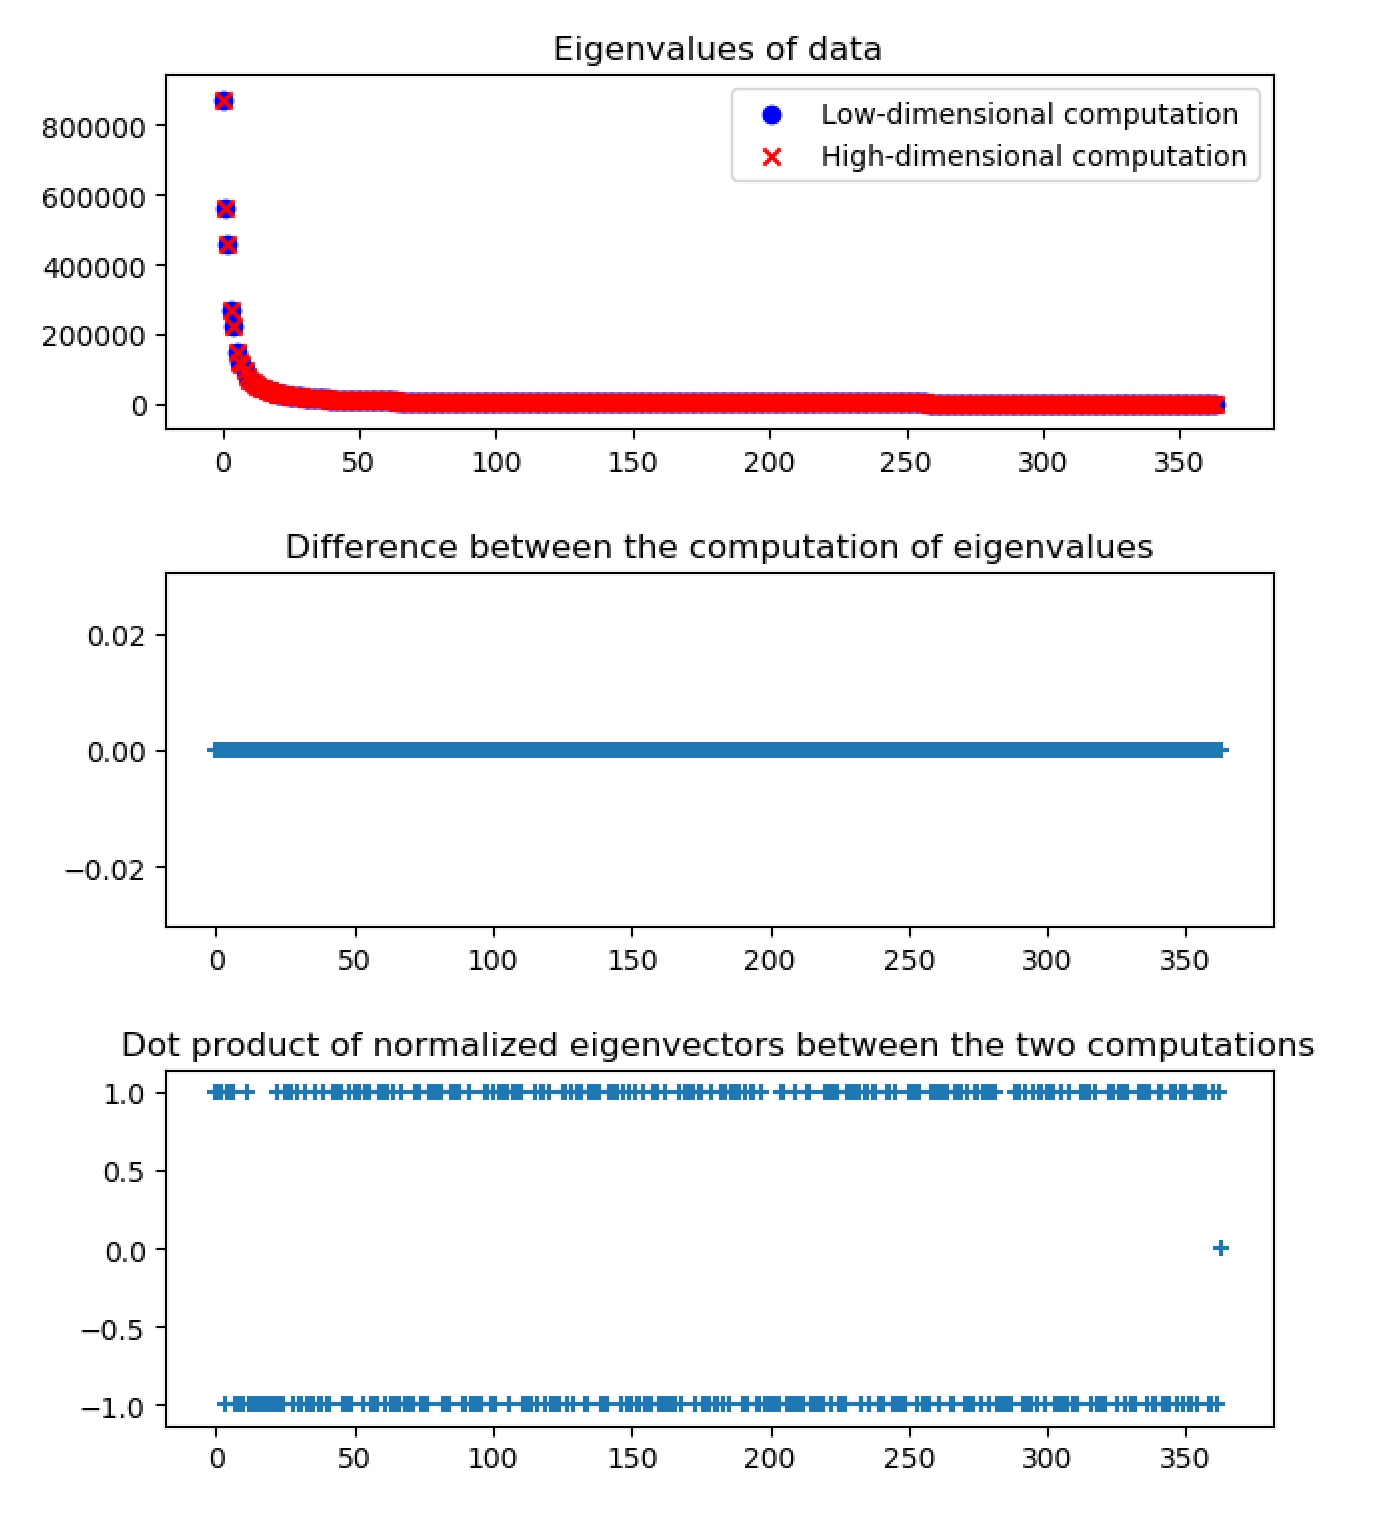
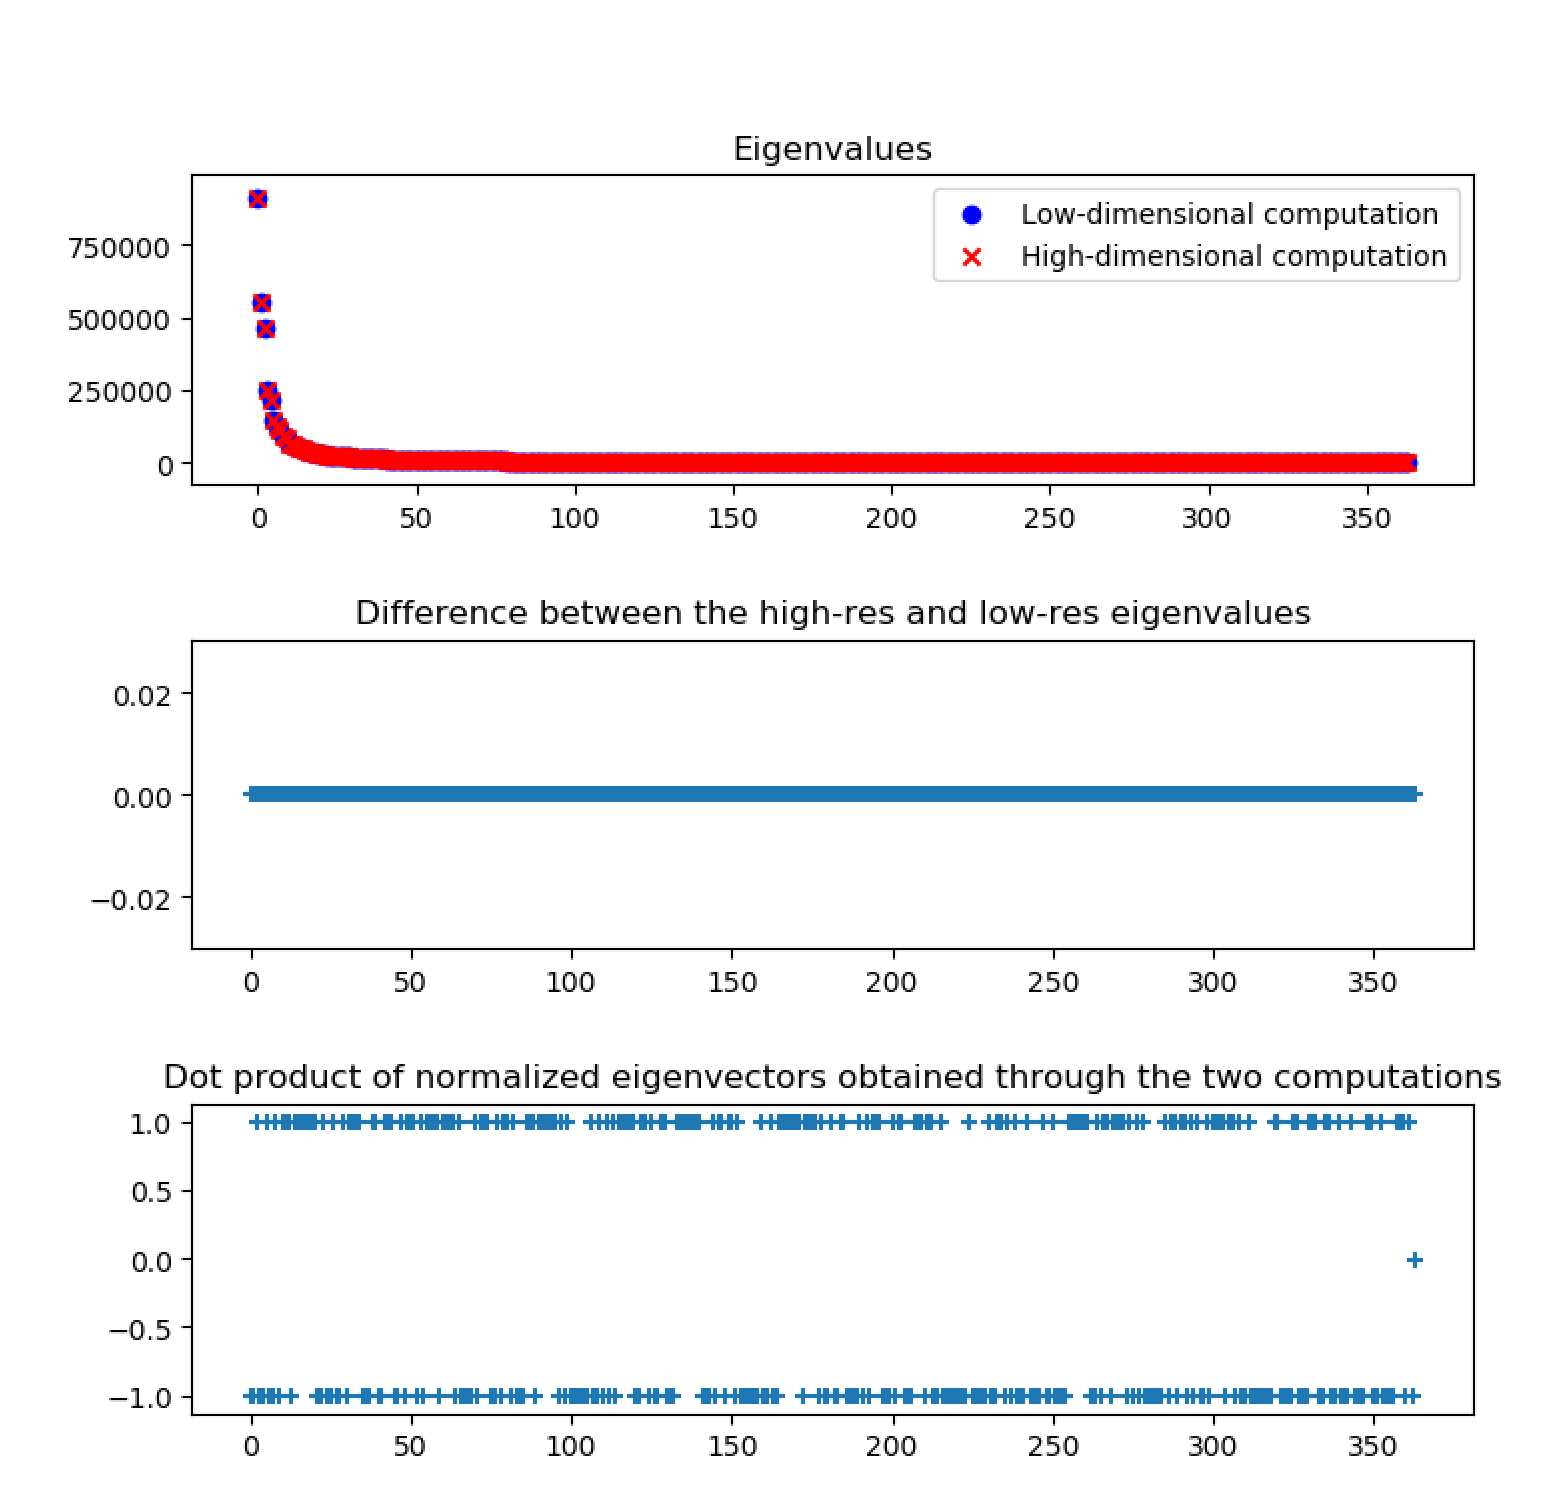
Difference_figure change

diff --git a/ex1b.py b/ex1b.py
@@ -46,13 +46,13 @@ if __name__ == '__main__':
     plt.scatter(np.arange(0, low_eigvalues.shape[0]), low_eigvalues, c='b', marker='o')
     plt.scatter(np.arange(0, low_eigvalues.shape[0]), high_eigvals[:364], c='r', marker='x')
     plt.legend(['Low-dimensional computation', 'High-dimensional computation'])
-    plt.title('Eigenvalues of data')
+    plt.title('Eigenvalues')
     plt.subplot(312)
-    plt.title('Difference between the computation of eigenvalues')
+    plt.title('Difference between the high-res and low-res eigenvalues')
     plt.scatter(np.arange(0, low_eigvalues.shape[0]), eigenvalue_difference, marker='+')
 
     diag = np.eye(low_eigvalues.shape[0]).astype(np.bool_)
     plt.subplot(313)
-    plt.title('Dot product of normalized eigenvectors between the two computations')
+    plt.title('Dot product of normalized eigenvectors obtained through the two computations')
     plt.scatter(np.arange(0, low_eigvalues.shape[0]), difference[diag], marker='+')
     plt.show()
